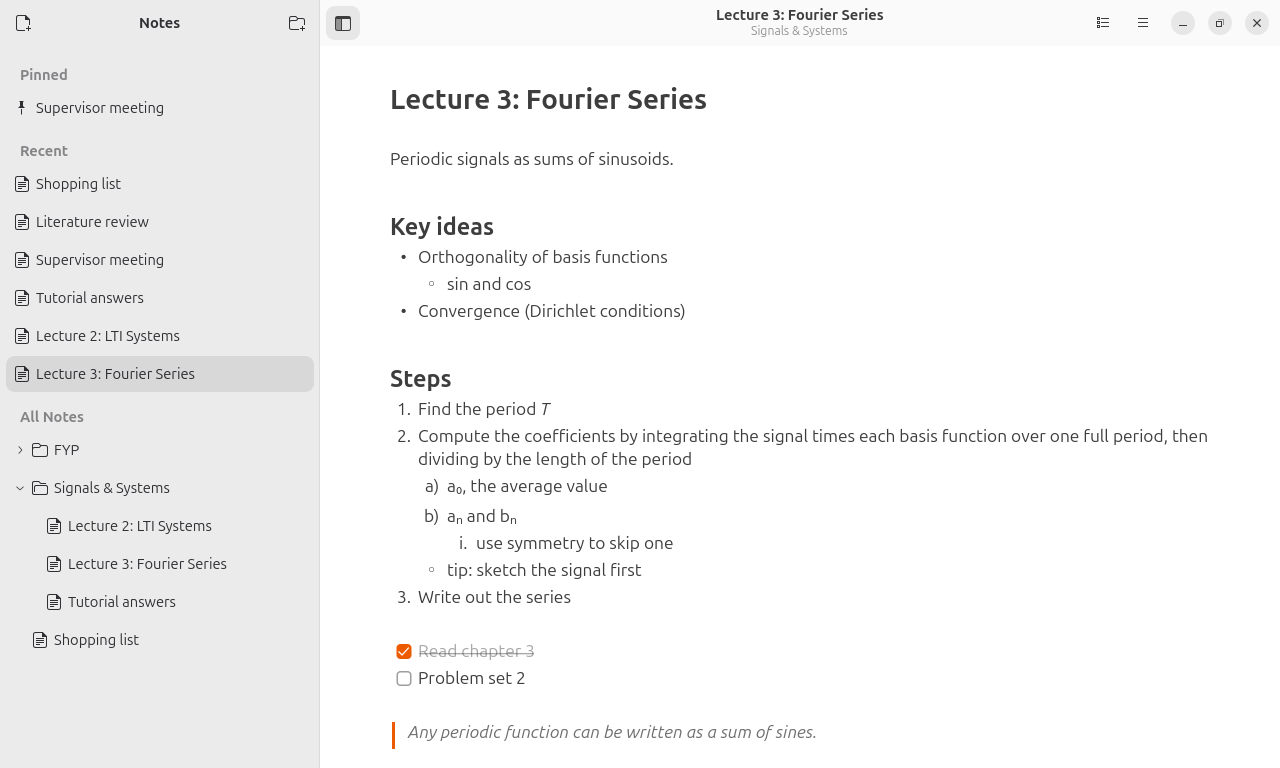
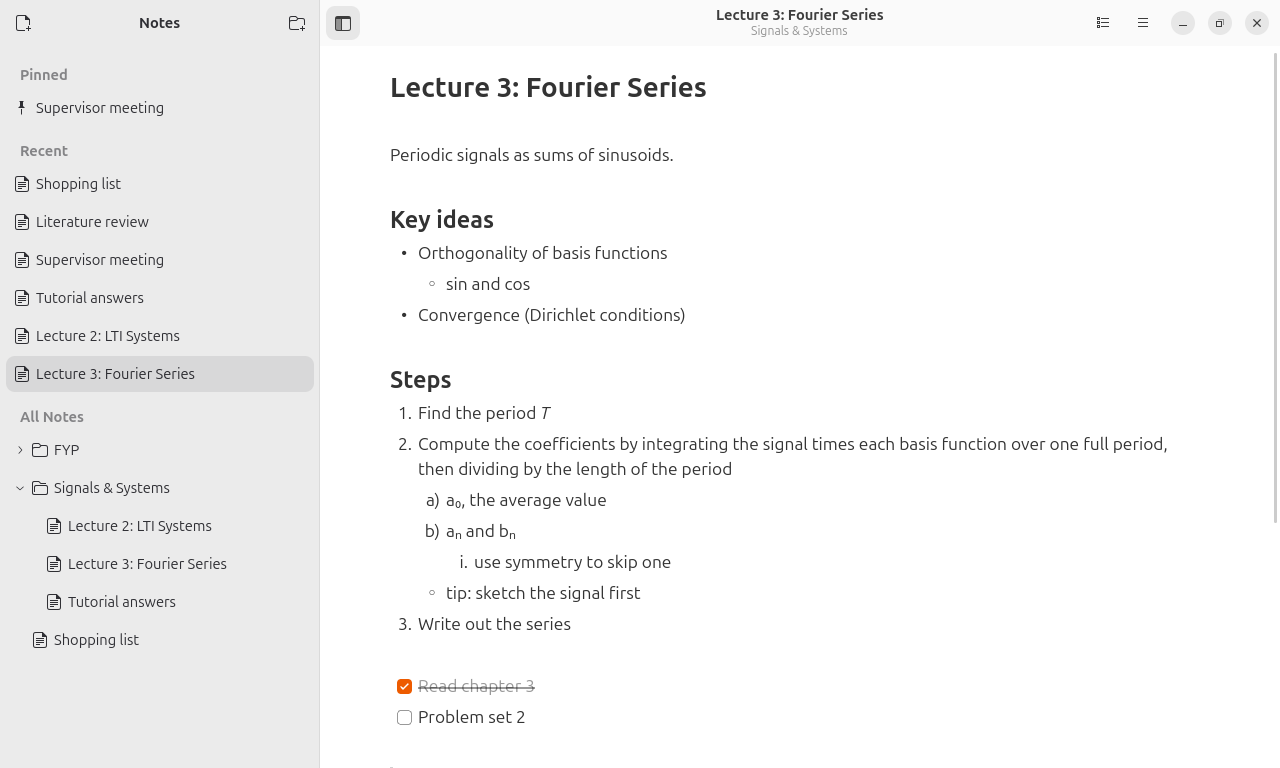
Notes: the CodeMirror editor is the default
Notes uses the CodeMirror editor whenever WebKitGTK 6.0 is installed, and falls back
to the GTK editor without it (or with LAUNCHER_NOTES_EDITOR=gtk). The setup check
reports a missing gir1.2-webkit-6.0; the README lists it and PLAN records the change
to D11. The GTK editor's nested tests pin it; the window test and the screenshots use
the new default.

diff --git a/src/launcher/doctor.py b/src/launcher/doctor.py
@@ -59,6 +59,7 @@ class Facts:
     espanso_service: str = ""
     espanso_file: bool = False  # espanso's launcher.yml exists
     gi_cairo: bool = True
+    webkit: bool = True  # WebKitGTK 6.0, for the Notes editor
     shortcuts_missing: list[str] = field(default_factory=list)
     shortcut_clashes: list[str] = field(default_factory=list)
     notes_writable: bool = True
@@ -77,6 +78,7 @@ def evaluate(f: Facts) -> list[Check]:
         _shortcuts(f),
         _espanso(f),
         _notes(f),
+        _editor(f),
         _pdf(f),
         _rates(f),
         _folders(f),
@@ -294,6 +296,20 @@ def _notes(f: Facts) -> Check:
     return Check("notes", title, OK, folder)
 
 
+def _editor(f: Facts) -> Check:
+    title = "Notes editor"
+    if not f.webkit:
+        return Check(
+            "editor",
+            title,
+            WARNING,
+            "The gir1.2-webkit-6.0 package is missing: Notes uses its older GTK editor",
+            "Install it: sudo apt install gir1.2-webkit-6.0, then quit and reopen Notes",
+            shell="sudo apt install gir1.2-webkit-6.0",
+        )
+    return Check("editor", title, OK, "Ready")
+
+
 def _pdf(f: Facts) -> Check:
     title = "Notes PDF export"
     if not f.gi_cairo:
@@ -427,6 +443,12 @@ def gather(config_path: Path | None = None) -> Facts:
         gi.require_foreign("cairo")
     except ImportError:
         f.gi_cairo = False
+    try:
+        import gi
+
+        gi.require_version("WebKit", "6.0")
+    except ValueError:  # not installed (or another version is already loaded)
+        f.webkit = False
     try:
         f.shortcuts_missing, f.shortcut_clashes = shortcuts.check(f.config)
     except Exception as e:  # no GNOME settings schemas: report, don't crash

diff --git a/tests/test_doctor.py b/tests/test_doctor.py
@@ -35,8 +35,8 @@ def test_a_healthy_setup_is_all_ok():
     checks = evaluate(healthy())
     assert [c.status for c in checks] == [OK] * len(checks)
     assert [c.key for c in checks] == [
-        "config", "service", "extension", "shortcuts", "espanso", "notes", "pdf", "rates",
-        "folders",
+        "config", "service", "extension", "shortcuts", "espanso", "notes", "editor", "pdf",
+        "rates", "folders",
     ]  # fmt: skip
     assert report(checks).endswith("Everything is set up.")
 
@@ -126,6 +126,10 @@ def test_notes_pdf_and_folders():
     pdf = by_key(healthy(gi_cairo=False))["pdf"]
     assert pdf.status == WARNING and "sudo apt install python3-gi-cairo" in pdf.fix
     assert pdf.command == ()  # needs sudo: never run for you
+    editor = by_key(healthy(webkit=False))["editor"]
+    assert editor.status == WARNING and "sudo apt install gir1.2-webkit-6.0" in editor.fix
+    assert editor.command == ()  # needs sudo: never run for you
+    assert by_key(healthy())["editor"].status == OK
     folders = by_key(healthy(missing_folders=["~/Desktop"]))["folders"]
     assert folders.status == WARNING and "~/Desktop" in folders.detail
 

diff --git a/tools/nested_notes_test.py b/tools/nested_notes_test.py
@@ -60,8 +60,17 @@ def wait_for(predicate, seconds: float = 3.0) -> bool:
 
 def type_text(window: NotesWindow, text: str) -> None:
     """Type at the end of the note (opening a note puts the cursor at the start)."""
-    window.editor.buffer.place_cursor(window.editor.buffer.get_end_iter())
-    window.editor.buffer.insert_at_cursor(text)
+    editor = window.editor
+    if not hasattr(editor, "buffer"):  # the CodeMirror editor
+        wait_for(lambda: editor._ready, 10.0)
+        before = editor.text()
+        editor.place_cursor(-1)
+        script = f"notes.view.dispatch(notes.view.state.replaceSelection({json.dumps(text)}))"
+        editor.view.evaluate_javascript(script, -1, None, None, None, None, None)
+        wait_for(lambda: editor.text() != before, 3.0)
+        return
+    editor.buffer.place_cursor(editor.buffer.get_end_iter())
+    editor.buffer.insert_at_cursor(text)
     pump(0.05)
 
 

diff --git a/src/launcher/notes/window.py b/src/launcher/notes/window.py
@@ -863,12 +863,13 @@ class NotesWindow(Adw.ApplicationWindow):
 
 
 def _make_editor() -> Gtk.Widget:
-    """The GTK editor, or the CodeMirror one (a prototype) with LAUNCHER_NOTES_EDITOR=web."""
-    if os.environ.get("LAUNCHER_NOTES_EDITOR") == "web":
+    """The CodeMirror editor (web_editor.py), or the GTK one when WebKit 6.0 isn't
+    installed or LAUNCHER_NOTES_EDITOR=gtk asks for it."""
+    if os.environ.get("LAUNCHER_NOTES_EDITOR") != "gtk":
         try:
             from .web_editor import WebMarkdownEditor
         except (ImportError, ValueError) as e:  # ValueError: WebKit 6.0 isn't installed
-            log.warning("web editor unavailable (%s): using the GTK one", e)
+            log.warning("CodeMirror editor unavailable (%s): using the GTK one", e)
         else:
             return WebMarkdownEditor()
     return MarkdownEditor()

diff --git a/tools/nested_screenshots.py b/tools/nested_screenshots.py
@@ -252,9 +252,12 @@ def window_shots() -> None:
     notes.present()
     pump(1.0)
     notes.open_note("Signals & Systems/Lecture 3 – Fourier Series.md")
-    notes.editor.buffer.place_cursor(notes.editor.buffer.get_end_iter())
+    wait_for(lambda: notes.editor._ready, 10.0)
+    notes.editor.place_cursor(-1)  # the cursor off every line shown: no markup
     pump(1.0)
-    notes.editor.scroll_to_iter(notes.editor.buffer.get_start_iter(), 0, False, 0, 0)
+    notes.editor.view.evaluate_javascript(
+        "notes.view.scrollDOM.scrollTop = 0", -1, None, None, None, None, None
+    )
     pump(0.5)
     snapshot(notes, str(OUT / "notes.png"))
     ConfigWriter(paths.config_file()).set_value("ui", "appearance", "dark")

diff --git a/tools/nested_notes_editor_test.py b/tools/nested_notes_editor_test.py
@@ -28,6 +28,10 @@ sys.path.insert(0, str(ROOT / "src"))
 
 from launcher import paths  # noqa: E402
 from launcher.notes.window import NotesWindow  # noqa: E402
+
+# The GTK editor (the fallback without WebKit); the default one is
+# tested by nested_notes_web_test.py.
+os.environ["LAUNCHER_NOTES_EDITOR"] = "gtk"
 from launcher.settings.debug import snapshot  # noqa: E402
 
 SNAPSHOTS = Path(sys.argv[1]) if len(sys.argv) > 1 else None

diff --git a/tools/nested_notes_input_test.py b/tools/nested_notes_input_test.py
@@ -33,6 +33,10 @@ from launcher import paths  # noqa: E402
 from launcher.notes import pdf as notes_pdf  # noqa: E402
 from launcher.notes.window import NotesWindow  # noqa: E402
 
+# The GTK editor (the fallback without WebKit); the default one is
+# tested by nested_notes_web_test.py.
+os.environ["LAUNCHER_NOTES_EDITOR"] = "gtk"
+
 NOTES = Path(os.environ["XDG_DATA_HOME"]) / "Notes"
 NOTE = """\
 # Heading here

diff --git a/PLAN.md b/PLAN.md
@@ -172,7 +172,7 @@ Shortcuts are registered by `launcher install-shortcuts`, which writes GNOME cus
 - **Settings:** a Converters page in Launcher Settings (`[converters]` in config.toml).
 
 ### ✅ D11 — Notes (M7) — **decided 2026-09-28**
-- **Editor:** native Gtk.TextView with our own live formatting (no WebKit: only the GTK 3 build is installed, and a native view works best with the pinyin/hangul input methods).
+- **Editor:** ~~native Gtk.TextView with our own live formatting~~ **changed 2026-09-30:** CodeMirror 6 in a WebKitGTK 6 view (`notes/web_editor.py`, built from `tools/codemirror`). Hiding list markers in Gtk.TextView kept producing cursor and click bugs; CodeMirror's atomic replace decorations don't have them. WebKit 6.0 is installed now (`gir1.2-webkit-6.0`), and Pinyin and Hangul were tested in it. The list rules are ported to `markdown.js` and kept equal to `notes_markdown.py` by `tests/test_notes_web_parity.py`. The GTK editor stays as the fallback when WebKit is missing (or with `LAUNCHER_NOTES_EDITOR=gtk`).
 - **Markers:** applied as you type and hidden; shown again on the line the cursor is on (live preview, like Obsidian/Typora). The file always stays plain markdown.
 - **Storage:** one `.md` file per note in `~/Notes` (configurable), sub-folders as notebooks; named after the title; pins in `.notes.json`; deleting goes to the Trash.
 - **Sidebar:** Pinned, Recent, then the folder tree; hideable (F9). No tags or full-text search for now.
@@ -384,7 +384,9 @@ linux-launcher/
 │   ├── settings/                 # Launcher Settings app (window, dialogs, debug renderer)
 │   ├── notes_store.py            # notes on disk: tree, save/rename, pins, NoteSession (pure)
 │   ├── notes_markdown.py         # markdown line kinds and editing rules (pure)
-│   ├── notes/                    # Notes app: app.py, window.py, sidebar.py, editor.py
+│   ├── notes/                    # Notes app: app.py, window.py, sidebar.py, web_editor.py
+│   │                             #   (CodeMirror in WebKit; web/ is built from tools/codemirror),
+│   │                             #   editor.py (the GTK fallback)
 │   └── providers/
 │       ├── base.py               # Result, Provider and Host protocols
 │       ├── commands.py           # built-in: reload config, open config, quit
@@ -458,5 +460,5 @@ Each milestone ends with something you can use every day. Use the launcher yours
 | D8 | Shortcuts | Super+Shift + Return / V / P / S / F; main launcher kept on Ctrl+Space | 2026-09-24 | All editable in Launcher Settings with clash checks |
 | D9 | Autostart/packaging | systemd --user service + uv | 2026-09-24 | |
 | D10 | Converters | Auto-detect in main search; Enter copies / Alt+Enter pastes; own English date parser; open.er-api.com with disk cache; home currency only; 12/24 h from GNOME; Settings page | 2026-09-28 | Fixed-date holidays only |
-| D11 | Notes | Native GtkTextView live preview; .md files in ~/Notes; folders + pinned/recent; normal window, Super+Shift+N; autosave on pause and focus loss | 2026-09-28 | Part 1 built |
+| D11 | Notes | ~~Native GtkTextView~~ CodeMirror 6 in WebKitGTK live preview (2026-09-30; GtkTextView kept as fallback); .md files in ~/Notes; folders + pinned/recent; normal window, Super+Shift+N; autosave on pause and focus loss | 2026-09-28 | Editor switched 2026-09-30 after the user tested it; ~38 ms per keystroke in a 10,000-line note (GTK: ~55-63 ms) |
 | D12 | Polish | One System/Light/Dark setting; setup check (`--doctor`, Status page, after install); setup problems in the launcher; crash notice; public README, MIT | 2026-09-28 | Stability issues reported from daily use |

diff --git a/README.md b/README.md
@@ -63,7 +63,7 @@ recent notes in a sidebar you can hide (F9), an outline of the headings, pasted
 screenshots, export to PDF, and autosave (a second after you stop typing, and whenever
 you switch to another window). Notes also show up in the launcher's search. It starts
 hidden when you log in, so Super+Shift+N opens it at once (and hides it again); Ctrl+Q
-quits it.
+quits it. The editor is [CodeMirror](https://codemirror.net/) running in WebKitGTK.
 
 <p align="center">
   <img src="docs/screenshots/notes.png" width="49%" alt="A lecture note">
@@ -86,9 +86,10 @@ launcher shows serious ones in a banner, and tells you if it ever crashed and re
 
 - GNOME Shell 50 on Wayland (tested on Ubuntu 26.04). The helper extension declares the
   GNOME versions it was tested with.
-- Python 3.12 or newer with PyGObject, GTK 4, libadwaita and the cairo bridge:
+- Python 3.12 or newer with PyGObject, GTK 4, libadwaita, the cairo bridge and WebKitGTK
+  (for the Notes editor):
   ```sh
-  sudo apt install python3-gi python3-gi-cairo gir1.2-gtk-4.0 gir1.2-adw-1
+  sudo apt install python3-gi python3-gi-cairo gir1.2-gtk-4.0 gir1.2-adw-1 gir1.2-webkit-6.0
   ```
 - [uv](https://docs.astral.sh/uv/) to install the Python dependencies.
 - Optional: [espanso](https://espanso.org/install/) (Wayland build) for snippet triggers.
@@ -174,6 +175,8 @@ the last good settings stay in use.
 - **Clipboard history is empty / paste only copies:** the helper extension isn't running.
   Run `make install-extension`, then log out and back in.
 - **Notes can't export PDFs:** `sudo apt install python3-gi-cairo`.
+- **Notes uses the older editor** (the setup check says so): `sudo apt install
+  gir1.2-webkit-6.0`, then quit Notes (Ctrl+Q) and open it again.
 - **Logs:** `make logs` (`journalctl --user -u launcher -f`). If the launcher crashes,
   systemd restarts it and Launcher Settings → Status shows its last log lines.
 - **espanso flashes a window when you switch input sources:** `make install-espanso-fix`
@@ -188,7 +191,13 @@ make lint
 make test-extension   # the extension in a private headless GNOME Shell
 tools/nested-shell.sh .venv/bin/python tools/nested_e2e_test.py   # end to end
 make screenshots      # regenerate the images in this README
+make notes-web        # rebuild the Notes editor (needs Node.js) after editing tools/codemirror
+make test-notes-web   # type into the Notes editor for real, Pinyin and Hangul included
 ```
+
+The Notes editor's list rules live twice: in `notes_markdown.py` and in
+`tools/codemirror/src/markdown.js`. Change both; `tests/test_notes_web_parity.py` checks
+they agree (it needs Node.js).
 
 `tools/nested-shell.sh` runs a command inside a headless nested GNOME Shell with its own
 session bus and settings, so the extension, global shortcuts, paste and the windows are
